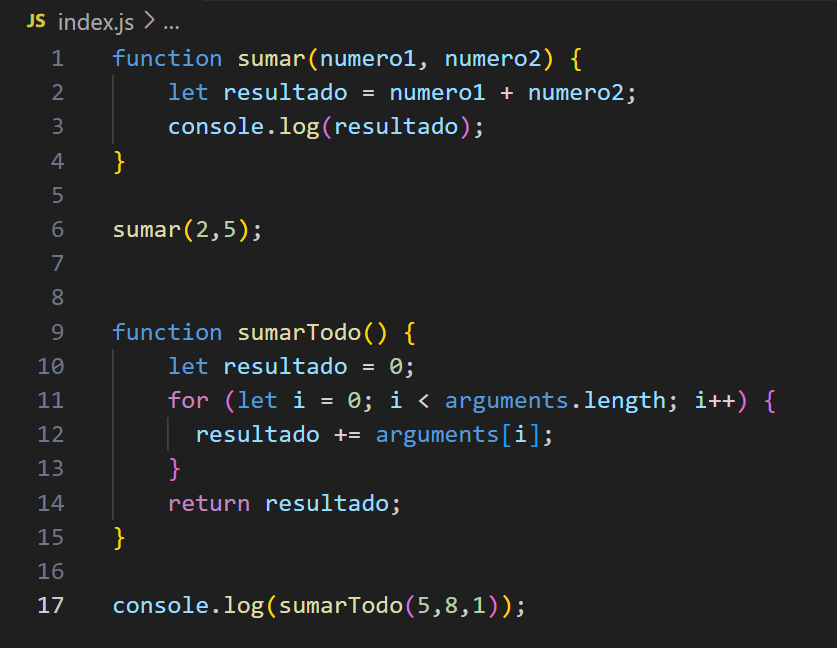
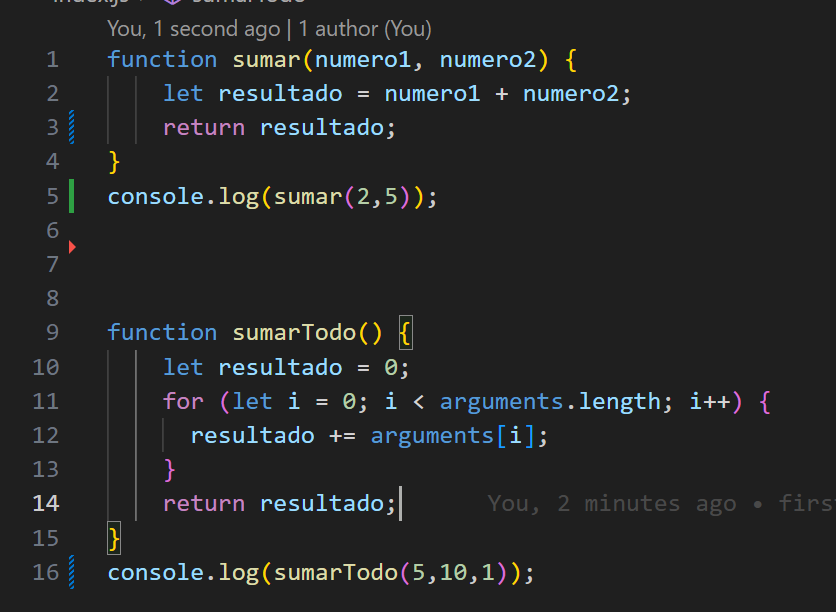
correciones

diff --git a/index.js b/index.js
@@ -1,9 +1,9 @@
 function sumar(numero1, numero2) {
     let resultado = numero1 + numero2;
-    console.log(resultado);
+    return resultado;
 }
+console.log(sumar(2,5));
 
-sumar(2,5);
 
 
 function sumarTodo() {
@@ -13,5 +13,4 @@ function sumarTodo() {
     }
     return resultado;
 }
-
-console.log(sumarTodo(5,8,1));
+console.log(sumarTodo(5,10,1));
